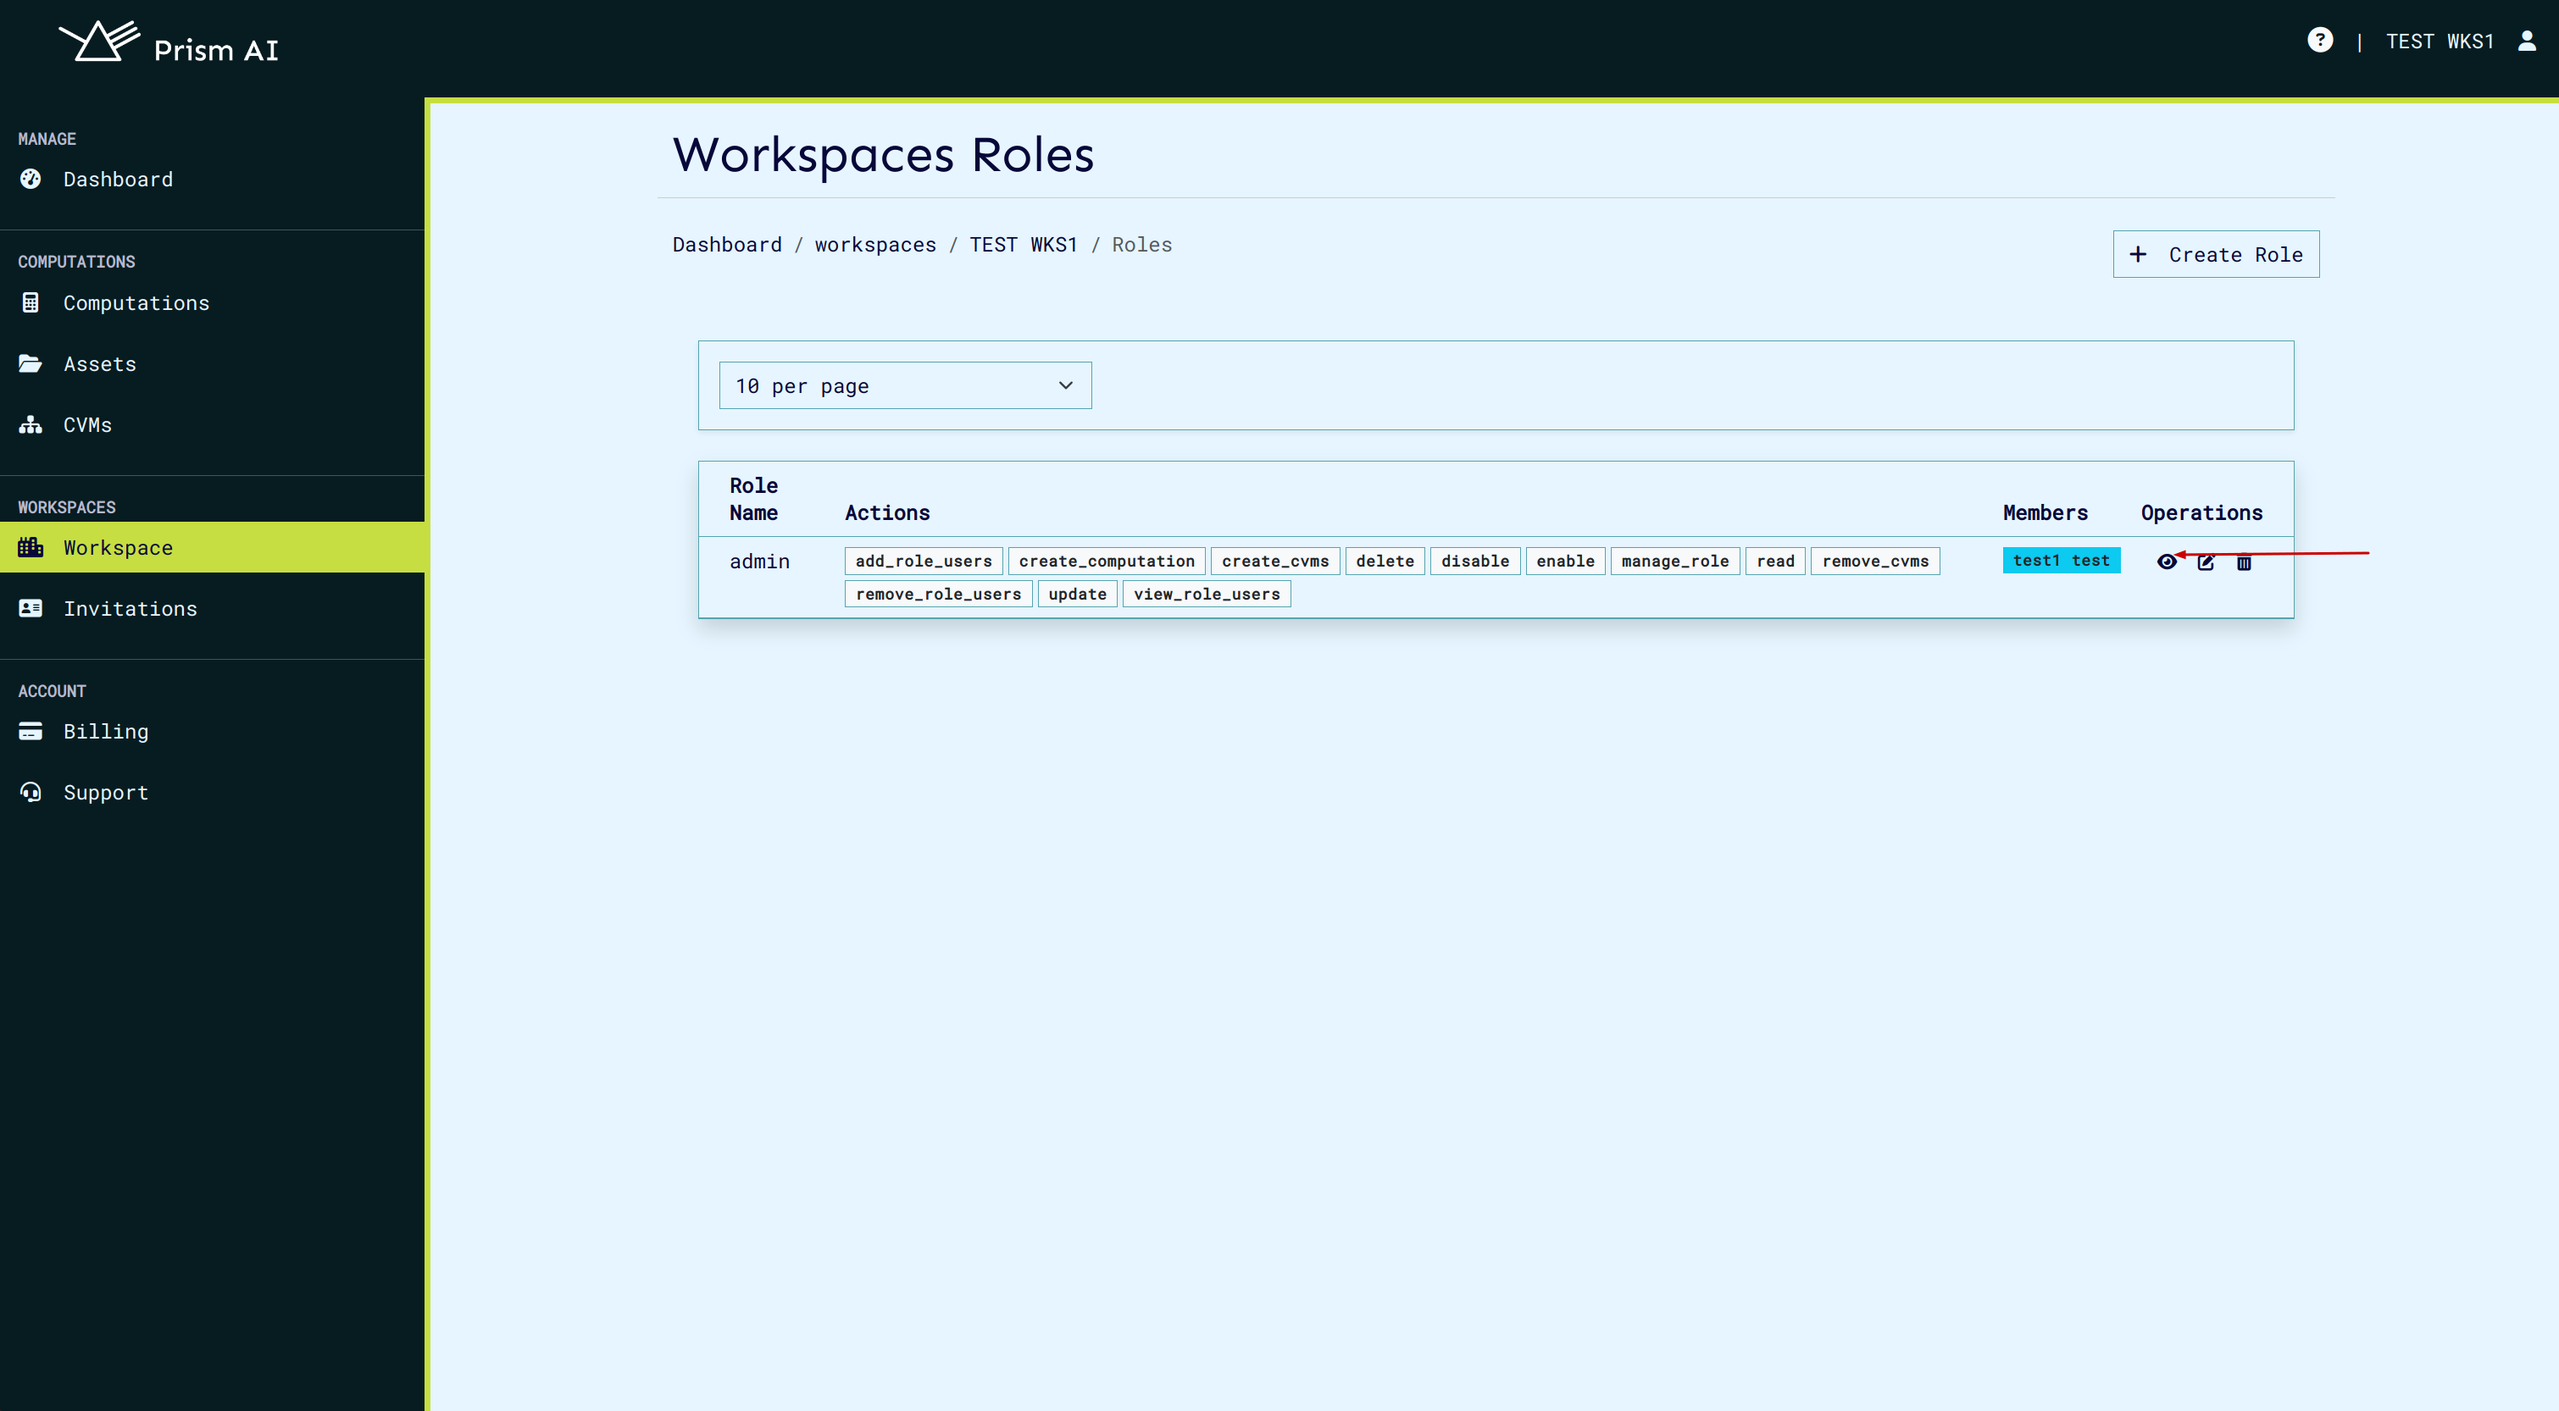
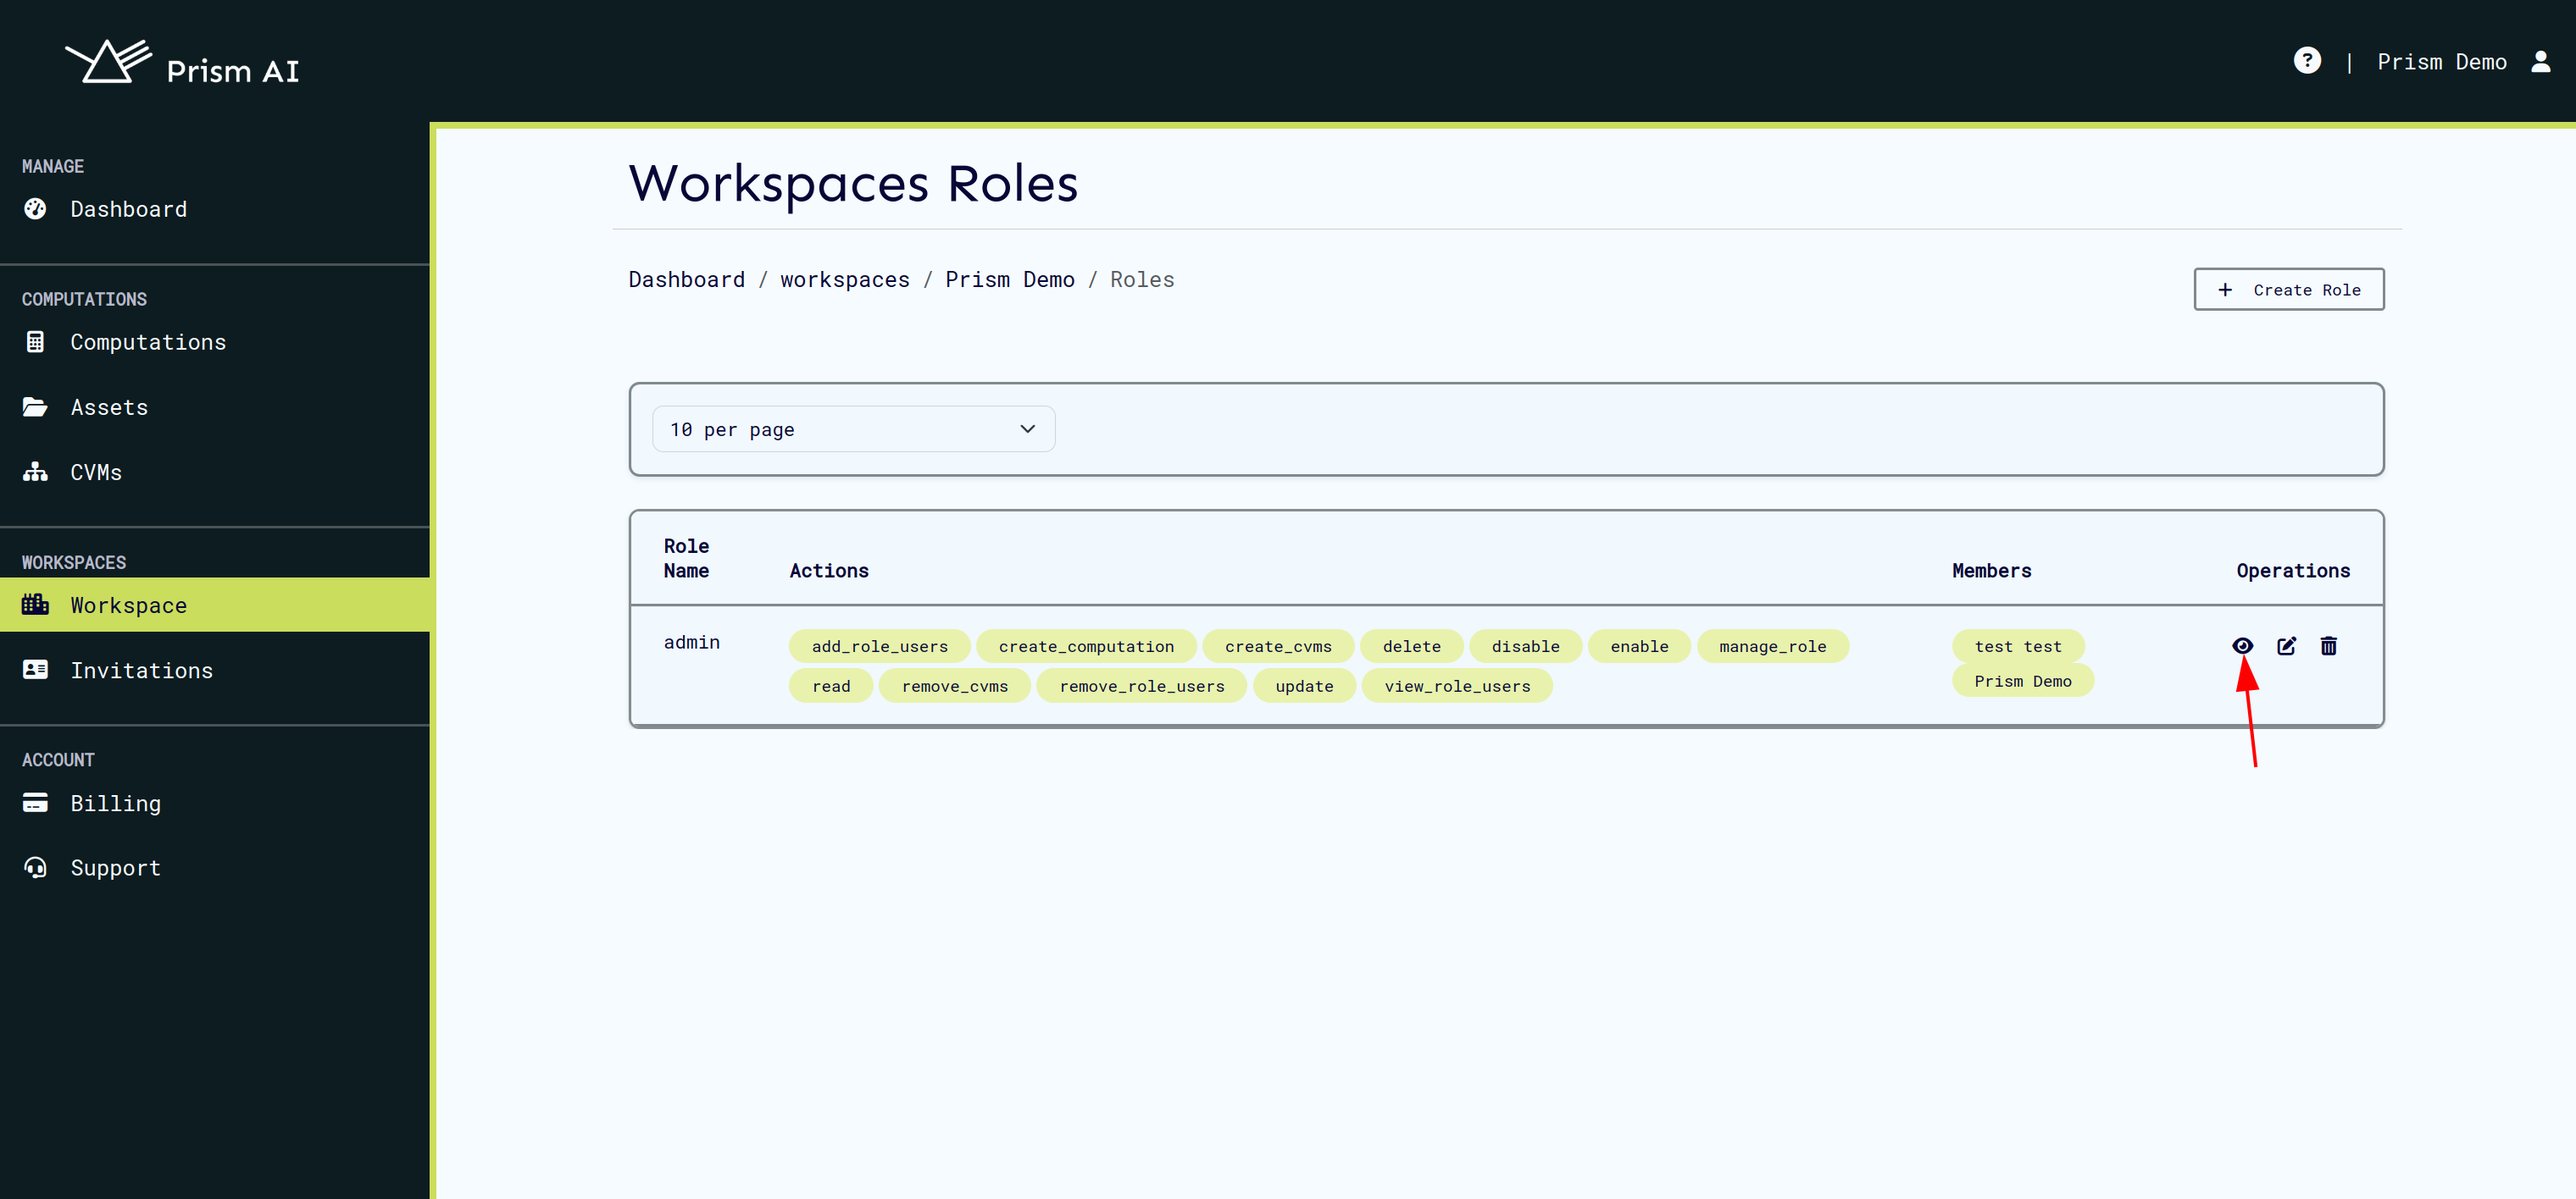
Update images to new UI workspace

diff --git a/docs/workspaces.md b/docs/workspaces.md
@@ -20,7 +20,7 @@ On the ui the steps are as follows:
 
 On the ui the steps are as follows:
 
-1. Click on 'Workspaces' on the navigation panel to view workspace details.
+1. Click on 'Workspace' on the navigation panel to view workspace details.
    ![Workspace Details](../static/img/ui/workspace%20details.png)
 
 2. Click on 'Update Workspace' to navigate to the update workspace page.
@@ -31,7 +31,7 @@ On the ui the steps are as follows:
 
 Viewing a workspace's details can be done as follows:
 
-1. Click on 'Workspaces' on the navigation panel to view workspace details.
+1. Click on 'Workspace' on the navigation panel to view workspace details.
    ![Workspace Details](../static/img/ui/workspace%20details.png)
 
 ## Get workspaces
